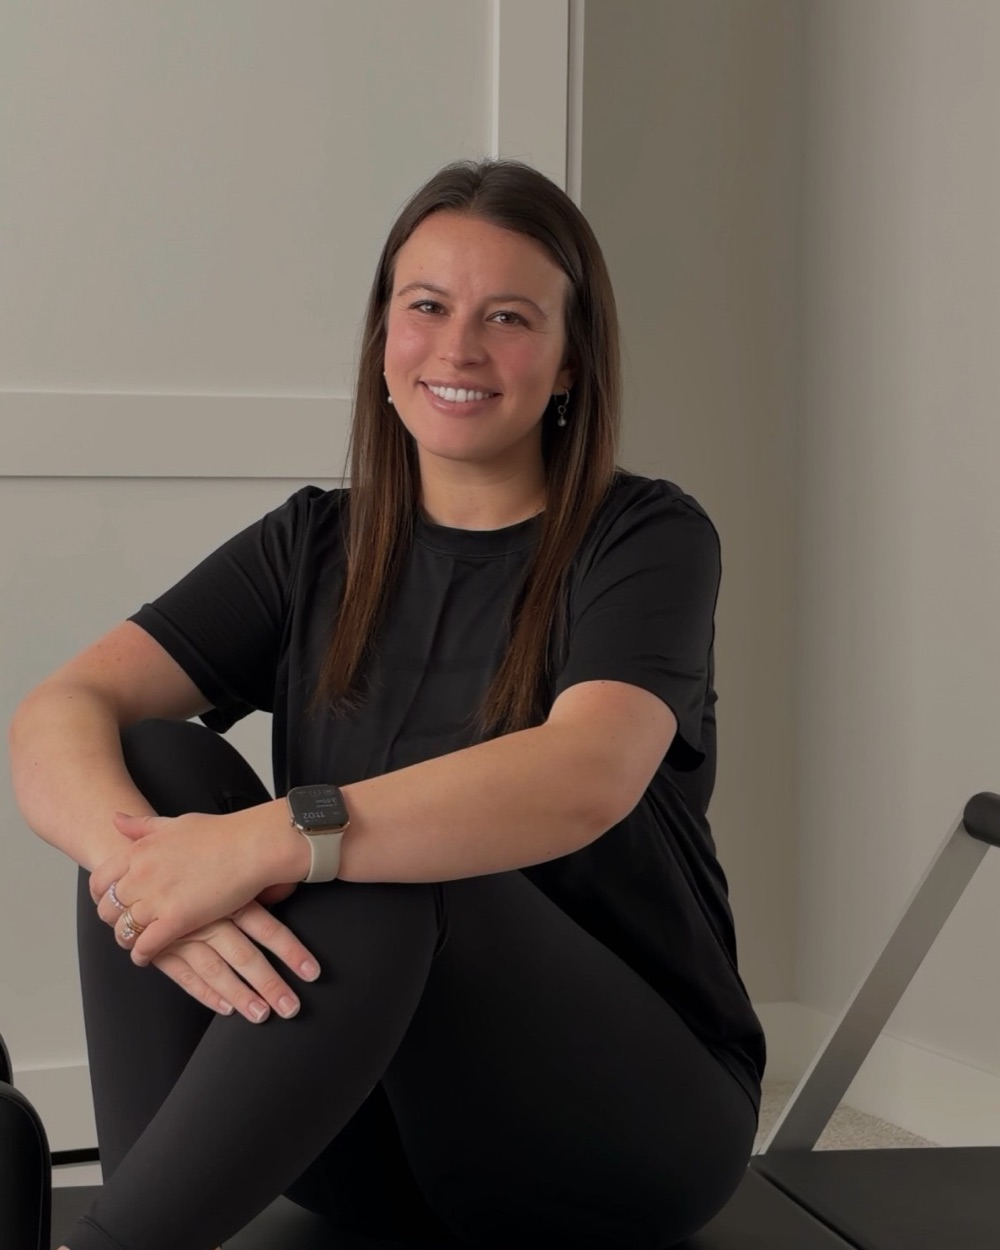
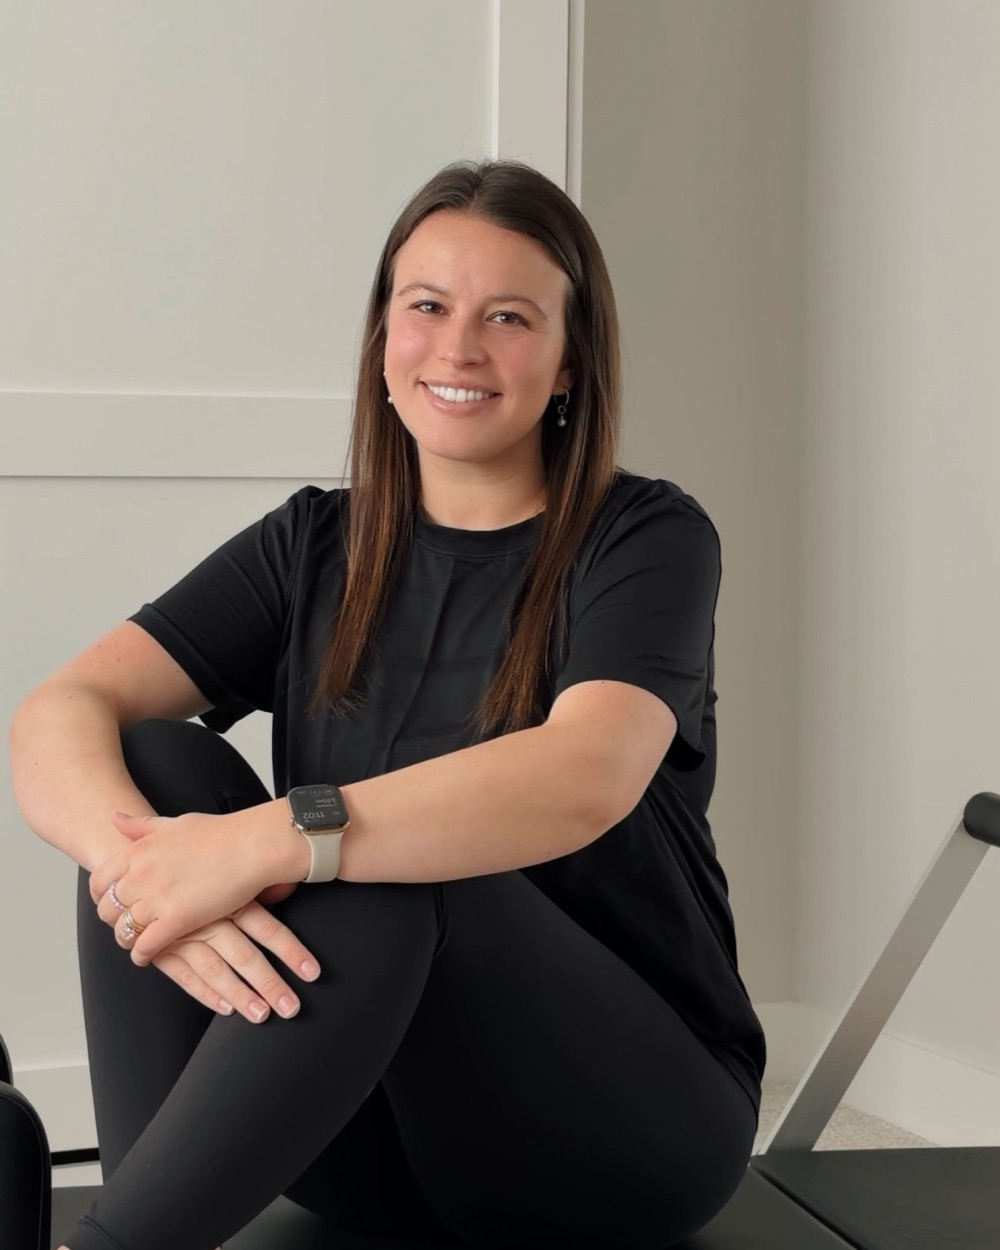
Use Taylor's brighter headshot edit on About
Same 4:5 crop; image link bumped to v=3.

diff --git a/about.html b/about.html
@@ -40,7 +40,7 @@
   </header>
 
   <section class="about" style="border-top:0">
-    <img class="portrait" src="images/taylor-headshot.jpg?v=2" alt="Taylor, Pilates instructor, smiling while sitting on a reformer in a black t-shirt" width="1000" height="1250">
+    <img class="portrait" src="images/taylor-headshot.jpg?v=3" alt="Taylor, Pilates instructor, smiling while sitting on a reformer in a black t-shirt" width="1000" height="1250">
     <div class="prose">
       <p>My passion is helping people feel stronger and more confident in their bodies through Pilates. I blend a Classical foundation with a contemporary approach, drawing on my Balanced Body Comprehensive training across the full range of Pilates apparatus: Mat, Reformer, Cadillac/Trapeze Table, Chair, and Barrels. That versatility lets me meet you where you are and build sessions that are well-rounded, challenging, and tailored to your goals.</p>
       <p>My specialized training in Pre &amp; Postnatal Pilates, the Oov, and Wellround Myofascial Release allows me to take a truly holistic, personalized approach to your wellness.</p>
